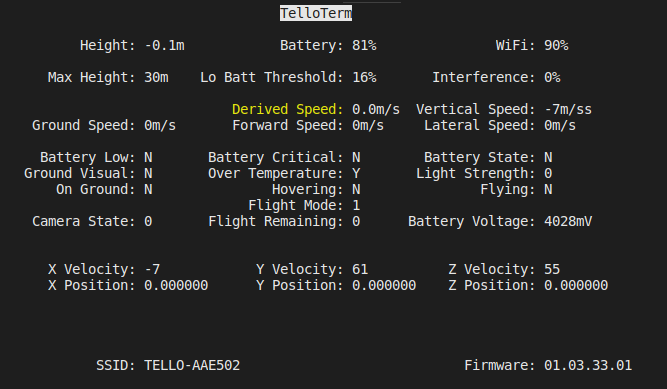
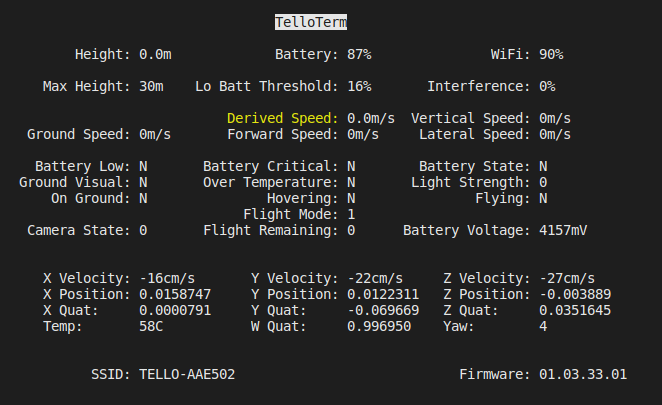
Add Yaw display, update ScreenShot

diff --git a/telloterm.go b/telloterm.go
@@ -159,10 +159,11 @@ func setupFields() {
 
 	fields[fTemp] = field{label{4, 19, termbox.ColorWhite, termbox.ColorDefault, "Temp:"}, 16, 19, 6, termbox.ColorWhite, termbox.ColorDefault, "?"}
 	fields[fQatW] = field{label{30, 19, termbox.ColorWhite, termbox.ColorDefault, "W Quat:"}, 42, 19, 6, termbox.ColorWhite, termbox.ColorDefault, "?"}
+	fields[fYaw] = field{label{54, 19, termbox.ColorWhite, termbox.ColorDefault, "Yaw:"}, 66, 19, 6, termbox.ColorWhite, termbox.ColorDefault, "?"}
 
-	fields[fRoll] = field{label{4, 20, termbox.ColorWhite, termbox.ColorDefault, "Roll:"}, 16, 20, 6, termbox.ColorWhite, termbox.ColorDefault, "?"}
-	fields[fPitch] = field{label{30, 20, termbox.ColorWhite, termbox.ColorDefault, "Pitch:"}, 42, 20, 6, termbox.ColorWhite, termbox.ColorDefault, "?"}
-	fields[fYaw] = field{label{54, 20, termbox.ColorWhite, termbox.ColorDefault, "Yaw:"}, 66, 20, 6, termbox.ColorWhite, termbox.ColorDefault, "?"}
+	// fields[fRoll] = field{label{4, 20, termbox.ColorWhite, termbox.ColorDefault, "Roll:"}, 16, 20, 6, termbox.ColorWhite, termbox.ColorDefault, "?"}
+	// fields[fPitch] = field{label{30, 20, termbox.ColorWhite, termbox.ColorDefault, "Pitch:"}, 42, 20, 6, termbox.ColorWhite, termbox.ColorDefault, "?"}
+	// fields[fYaw] = field{label{54, 20, termbox.ColorWhite, termbox.ColorDefault, "Yaw:"}, 66, 20, 6, termbox.ColorWhite, termbox.ColorDefault, "?"}
 
 	fields[fSSID] = field{label{10, 22, termbox.ColorWhite, termbox.ColorDefault, "SSID: "}, 16, 22, 20, termbox.ColorWhite, termbox.ColorDefault, "?"}
 	fields[fVersion] = field{label{56, 22, termbox.ColorWhite, termbox.ColorDefault, "Firmware: "}, 66, 22, 10, termbox.ColorWhite, termbox.ColorDefault, "?"}
@@ -468,10 +469,10 @@ func updateFields(newFd tello.FlightData) {
 	fields[fQatZ].value = fmt.Sprintf("%f", newFd.IMU.QuaternionZ)
 	fields[fTemp].value = fmt.Sprintf("%dC", newFd.IMU.Temperature)
 
-	p, r, y := tello.QuatToEulerDeg(float64(newFd.IMU.QuaternionX), float64(newFd.IMU.QuaternionY), float64(newFd.IMU.QuaternionZ), float64(newFd.IMU.QuaternionW))
-	fields[fRoll].value = fmt.Sprintf("%d", r)
-	fields[fPitch].value = fmt.Sprintf("%d", p)
-	fields[fYaw].value = fmt.Sprintf("%d", y)
+	// p, r, y := tello.QuatToEulerDeg(newFd.IMU.QuaternionX, newFd.IMU.QuaternionY, newFd.IMU.QuaternionZ, newFd.IMU.QuaternionW)
+	// fields[fRoll].value = fmt.Sprintf("%d", r)
+	// fields[fPitch].value = fmt.Sprintf("%d", p)
+	fields[fYaw].value = fmt.Sprintf("%d", newFd.IMU.Yaw)
 
 	fields[fSSID].value = newFd.SSID
 	fields[fVersion].value = newFd.Version
